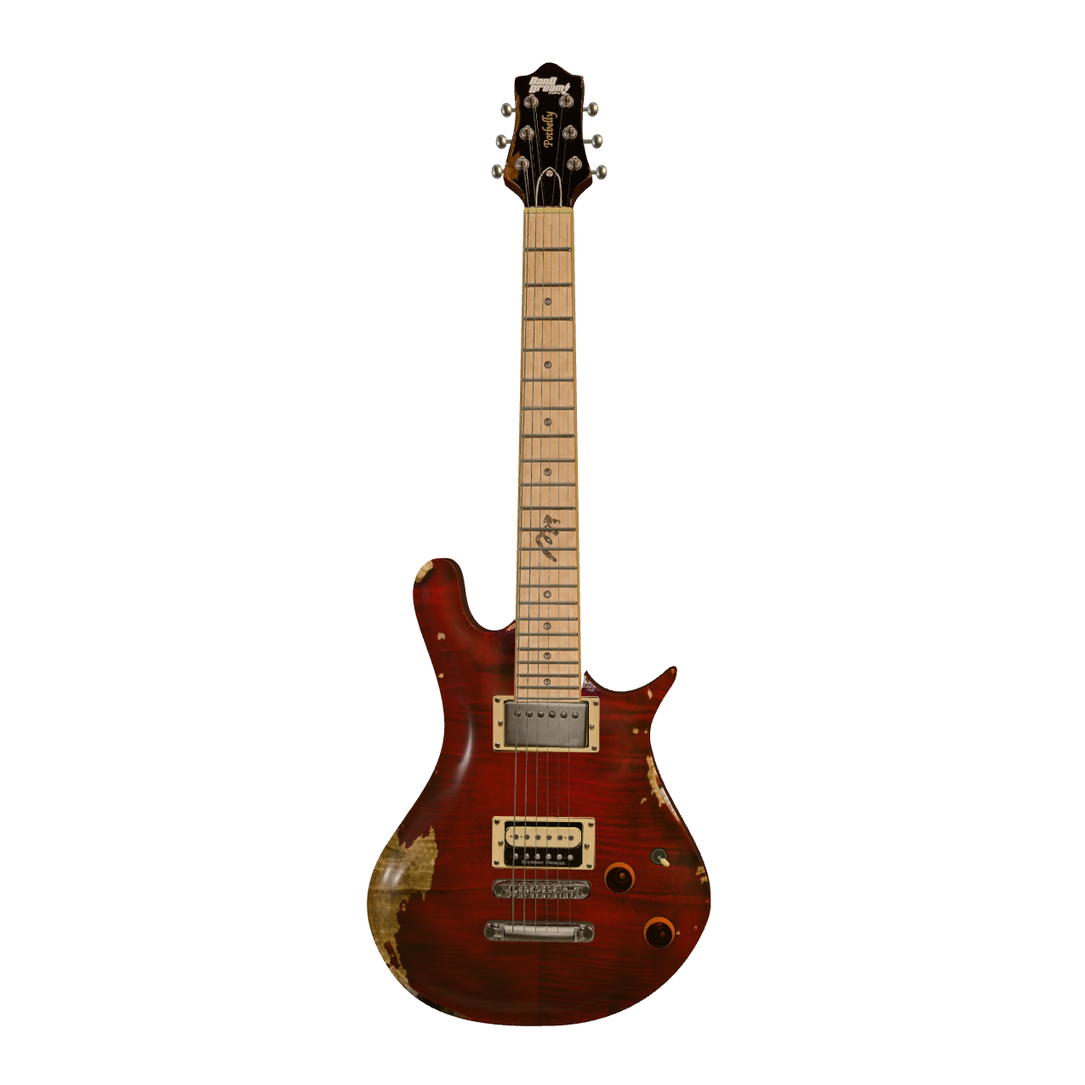
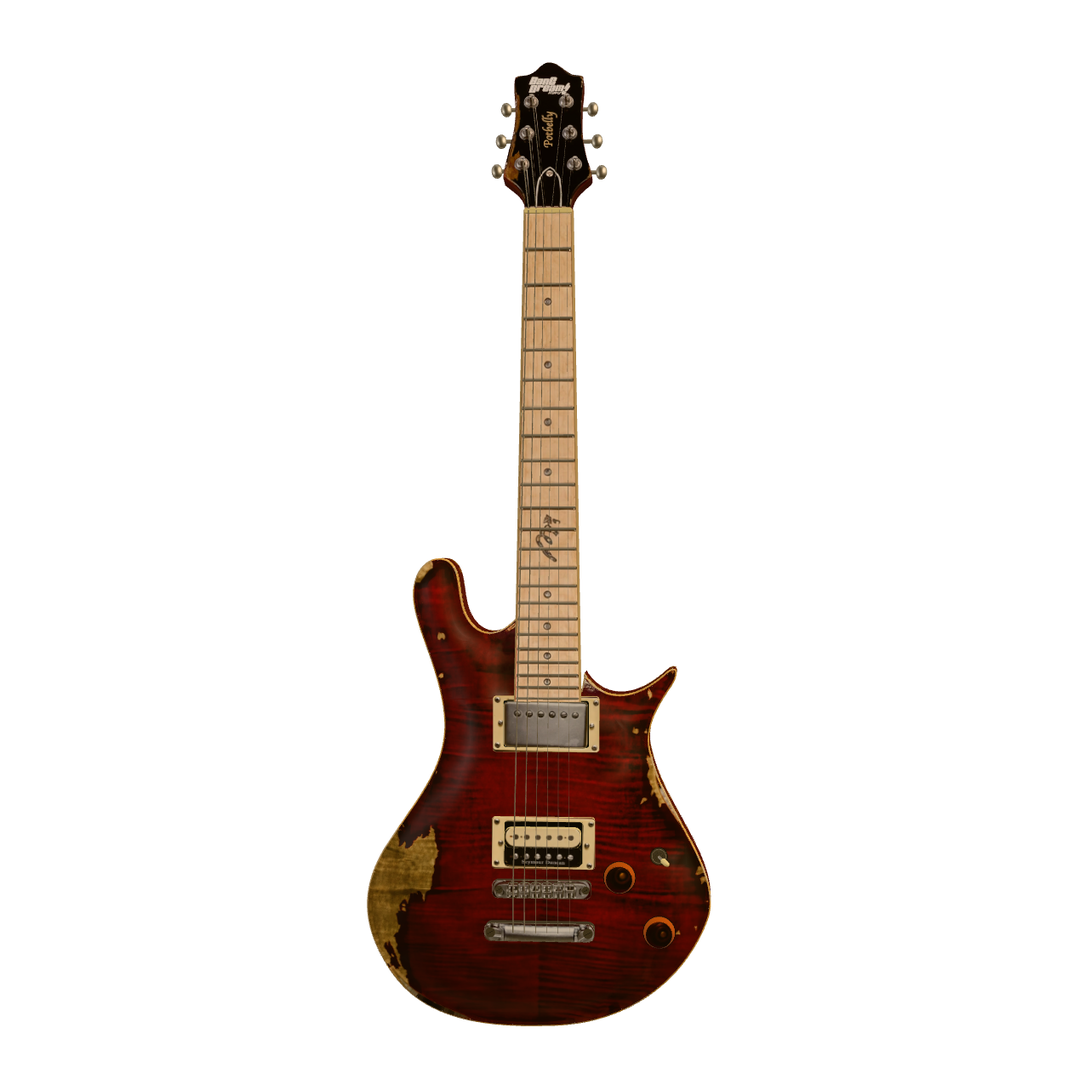
feat(me): 吉他漆面按 ESP 原版做旧硝基：缎面、虎纹、侧板与琴颈背
- Model the finish on ESP's POTBELLY FM Rāna "Distressed See Thru Wine Red (Lacquer)":
  thin nitro satin, matte bare wood, a few patches of checking, aged nickel hardware
- Chatoyant flame: the curl pattern rolls with the viewing angle instead of losing contrast
- Grade the lacquer to ESP's pure wine red and the worn maple to a dirtier amber
- Sides get natural maple binding over wine-red mahogany, with wear continued from the
  front and back photographs at each point of the edge
- Back, scraped neck back and headstock back from ESP's back photograph (esp-rana-back.webp)
- The close-up turns all the way round; damp the headstock's direct glare at home
- Re-render guitar-home.webp; document the finish in English

diff --git a/src/scripts/me/guitar-model.js b/src/scripts/me/guitar-model.js
@@ -39,13 +39,15 @@ async function init() {
   const photoImage=document.querySelector('#guitar-photo');
   photoImage.loading='eager';
   const originalPhoto=photoImage.decode().then(()=>{const texture=new THREE.Texture(photoImage);texture.needsUpdate=true;return texture;});
-  const [photo,bareBody,official,headOriginal]=await Promise.all([
+  const [photo,bareBody,official,backPhoto,headOriginal]=await Promise.all([
     loader.loadAsync(new URL('../../assets/me/qiu-potbelly-stringless.webp',import.meta.url).href),
     loader.loadAsync(new URL('../../assets/me/qiu-potbelly-bare-body.webp',import.meta.url).href),
     loader.loadAsync(new URL('../../assets/me/bangdream-potbelly-stringless.webp',import.meta.url).href),
+    // ESP's official back photograph, mirrored into the front photograph's frame (x = 2392 − x) and cropped at x = 760.
+    loader.loadAsync(new URL('../../assets/me/esp-rana-back.webp',import.meta.url).href),
     originalPhoto
   ]);
-  [photo,bareBody,official,headOriginal].forEach(t=>{t.colorSpace=THREE.SRGBColorSpace;t.anisotropy=Math.min(8,renderer.capabilities.getMaxAnisotropy());});
+  [photo,bareBody,official,backPhoto,headOriginal].forEach(t=>{t.colorSpace=THREE.SRGBColorSpace;t.anisotropy=Math.min(8,renderer.capabilities.getMaxAnisotropy());});
   await yieldTask();
 
   // A small studio environment supplies real moving reflections on the metal.
@@ -79,18 +81,99 @@ async function init() {
   };
   lighting.studio();
 
-  const metal=new THREE.MeshStandardMaterial({color:'#bfc3c1',metalness:1,roughness:.24,envMapIntensity:.85});
+  // Aged nickel rather than polished chrome.
+  const metal=new THREE.MeshStandardMaterial({color:'#c4bfb2',metalness:1,roughness:.3,envMapIntensity:.8});
   const darkMetal=new THREE.MeshStandardMaterial({color:'#424341',metalness:.8,roughness:.32});
   const cream=new THREE.MeshStandardMaterial({color:'#d9ca91',roughness:.38});
   const black=new THREE.MeshStandardMaterial({color:'#121513',roughness:.36});
-  const side=new THREE.MeshPhysicalMaterial({color:'#351015',roughness:.37,clearcoat:.35,clearcoatRoughness:.3});
-  const varnish=new THREE.MeshPhysicalMaterial({map:bareBody,roughness:.62,clearcoat:.55,clearcoatRoughness:.2,envMapIntensity:.32});
-  // Qiu's own photo darkens the lacquer towards purple. Grade only the red finish
-  // (not the bare-wood wear) towards the official Rāna photograph's warm cherry.
+  const side=new THREE.MeshPhysicalMaterial({color:'#4a1012',roughness:.55,clearcoat:.2,clearcoatRoughness:.4});
+
+  // ESP finishes the Rāna in "Distressed See Thru Wine Red (Lacquer)", aged by hand: a thin nitro
+  // satin over a flamed maple top and a mahogany back, worn through to bare wood where a player
+  // would wear it. Lacquer and bare wood are told apart by colour alone: wine red is almost pure red.
+  const finishGLSL=`
+    float lacquerOf(vec3 c,float a,float b){return smoothstep(a,b,(c.r-max(c.g,c.b))/max(c.r,.001));}
+    float hash3(vec3 p){p=fract(p*.3183099+.1);p*=17.;return fract(p.x*p.y*p.z*(p.x+p.y+p.z));}
+    float noise3(vec3 x){vec3 i=floor(x),f=fract(x);f=f*f*(3.-2.*f);
+      return mix(mix(mix(hash3(i),hash3(i+vec3(1,0,0)),f.x),mix(hash3(i+vec3(0,1,0)),hash3(i+vec3(1,1,0)),f.x),f.y),
+                 mix(mix(hash3(i+vec3(0,0,1)),hash3(i+vec3(1,0,1)),f.x),mix(hash3(i+vec3(0,1,1)),hash3(i+vec3(1,1,1)),f.x),f.y),f.z);}
+    // Nitro checks: a fine crazing of cracks, only in a few patches, as on ESP's upper horn.
+    float checking(vec2 p){
+      vec2 i=floor(p),f=fract(p);float d1=8.,d2=8.;
+      for(int y=-1;y<=1;y++)for(int x=-1;x<=1;x++){vec2 g=vec2(x,y),o=vec2(hash3(vec3(i+g,1.)),hash3(vec3(i+g,7.)));float d=length(g+o-f);if(d<d1){d2=d1;d1=d;}else if(d<d2)d2=d;}
+      float e=d2-d1,w=fwidth(e)*1.2+.015;
+      return (1.-smoothstep(0.,w,e))*smoothstep(.06,.25,1./max(fwidth(p.x)*40.,.001));
+    }`;
+  const figure={value:0};
+  const varnish=new THREE.MeshPhysicalMaterial({map:bareBody,roughness:.5,clearcoat:.32,clearcoatRoughness:.38,envMapIntensity:.32});
   varnish.onBeforeCompile=shader=>{
+    shader.uniforms.figure=figure;
+    shader.fragmentShader=shader.fragmentShader.replace('#include <common>','#include <common>\nuniform float figure;\n'+finishGLSL);
     shader.fragmentShader=shader.fragmentShader.replace('#include <map_fragment>',`#include <map_fragment>
-      float lacquer=smoothstep(.55,.85,(diffuseColor.r-max(diffuseColor.g,diffuseColor.b))/max(diffuseColor.r,.001));
-      diffuseColor.rgb=mix(diffuseColor.rgb,diffuseColor.rgb*vec3(1.6,1.,1.35)+vec3(0.,.0075,.0016),lacquer);
+      float lacquer=lacquerOf(diffuseColor.rgb,.55,.85);
+      // Flamed maple is chatoyant: as the guitar turns, its curls swap light for dark.
+      // The curls run across the body, so their bright bands roll along its length; keep their
+      // contrast, deepen it a little as ESP's top shows, and shift which curls catch the light.
+      vec3 broad=texture2D(map,vMapUv,3.5).rgb;
+      vec3 rolled=texture2D(map,vMapUv+vec2(0.,figure*.0032)).rgb;
+      float broadLuma=dot(broad,vec3(.7,.25,.05))+.0005;
+      float curl=dot(diffuseColor.rgb,vec3(.7,.25,.05))/broadLuma,rolledCurl=dot(rolled,vec3(.7,.25,.05))/broadLuma;
+      diffuseColor.rgb*=mix(1.,clamp((1.+(rolledCurl-1.)*1.75)/max(curl,.05),.3,2.8),lacquer*smoothstep(.3,.6,lacquerOf(rolled,.55,.85)));
+      // Qiu's photo carries a little blue; ESP's lacquer is a pure, deep wine red (sRGB ≈ 75,0,0).
+      diffuseColor.rgb=mix(diffuseColor.rgb,diffuseColor.rgb*vec3(1.08,.6,.22),lacquer);
+      // Bare maple that has 'aged' is a dirtier amber than fresh wood.
+      diffuseColor.rgb*=mix(vec3(.84,.76,.6),vec3(1.),lacquer);
+      vec2 photoPixel=vMapUv*vec2(1080.,1501.);
+      float checks=checking(photoPixel/11.)*smoothstep(.66,.82,noise3(vec3(photoPixel/150.,3.)))*lacquer;
+      diffuseColor.rgb*=1.-.25*checks;
+    `).replace('#include <roughnessmap_fragment>',`#include <roughnessmap_fragment>
+      roughnessFactor=mix(.86,roughnessFactor,lacquer);
+    `).replace('#include <lights_physical_fragment>',`#include <lights_physical_fragment>
+      material.clearcoat*=lacquer*(1.-checks);
+    `);
+  };
+  // ESP's back photograph covers the mahogany back, the scraped neck and the headstock's back.
+  const backFinish=new THREE.MeshPhysicalMaterial({map:backPhoto,roughness:.5,clearcoat:.3,clearcoatRoughness:.4,envMapIntensity:.3});
+  backFinish.onBeforeCompile=shader=>{
+    shader.fragmentShader=shader.fragmentShader.replace('#include <common>','#include <common>\n'+finishGLSL);
+    shader.fragmentShader=shader.fragmentShader.replace('#include <map_fragment>',`#include <map_fragment>
+      float lacquer=lacquerOf(diffuseColor.rgb,.8,.95);
+    `).replace('#include <roughnessmap_fragment>',`#include <roughnessmap_fragment>
+      roughnessFactor=mix(.84,roughnessFactor,lacquer);
+    `).replace('#include <lights_physical_fragment>',`#include <lights_physical_fragment>
+      material.clearcoat*=lacquer;
+    `);
+  };
+  const backFinishInside=backFinish.clone();backFinishInside.side=THREE.BackSide;backFinishInside.onBeforeCompile=backFinish.onBeforeCompile;
+  // The sides: a natural maple binding along the top, then wine red over mahogany. Wear continues
+  // from whatever the front and back photographs show at that point of the edge, and edges rub through.
+  const sideFinish=new THREE.MeshPhysicalMaterial({map:bareBody,roughness:.5,clearcoat:.3,clearcoatRoughness:.4,envMapIntensity:.3});
+  sideFinish.onBeforeCompile=shader=>{
+    shader.uniforms.backMap={value:backPhoto};
+    shader.vertexShader='varying vec3 vSidePos;\n'+shader.vertexShader.replace('#include <begin_vertex>','#include <begin_vertex>\nvSidePos=position;');
+    shader.fragmentShader=shader.fragmentShader.replace('#include <common>','#include <common>\nuniform sampler2D backMap;\nvarying vec3 vSidePos;\n'+finishGLSL);
+    shader.fragmentShader=shader.fragmentShader.replace('#include <map_fragment>',`#include <map_fragment>
+      vec3 P=vSidePos;float height=clamp((P.z+.029)/.043,0.,1.);
+      vec2 photoPixel=vec2(vMapUv.x*1080.,(1.-vMapUv.y)*1501.);
+      vec2 backUv=vec2((8.+(photoPixel.x-6.6)*.8113)/870.,1.-(1262.+(photoPixel.y-77.6)*.7885)/2400.);
+      vec3 front=diffuseColor.rgb,back=texture2D(backMap,backUv).rgb;
+      float frontBare=1.-lacquerOf(front,.55,.85),backBare=1.-lacquerOf(back,.8,.95);
+      float chips=noise3(P*vec3(380.,380.,600.))*.65+noise3(P*vec3(1100.,1100.,1700.))*.35,patches=noise3(P*vec3(110.,110.,160.)+7.)*.7+noise3(P*vec3(330.,330.,480.)+3.)*.3;
+      float wear=max(frontBare*smoothstep(.3,.95,height),backBare*smoothstep(.7,.05,height));
+      wear=max(wear,smoothstep(.66,.8,patches))+(chips-.5)*.22+.4*(pow(height,12.)+pow(1.-height,12.));
+      float bare=smoothstep(.47,.53,wear);
+      float grain=noise3(vec3(P.xy*90.,P.z*2600.))*.6+noise3(vec3(P.xy*30.,P.z*700.))*.4;
+      float curl=noise3(vec3(P.xy*520.,P.z*25.));
+      float binding=smoothstep(.0055,.0065,P.z);
+      vec3 mahogany=mix(vec3(.105,.003,.003)*(.75+.5*grain),vec3(.17,.05,.012)*(.7+.6*grain),bare);
+      mahogany=mix(mahogany,back,smoothstep(.12,0.,height)*(1.-bare));
+      vec3 maple=mix(vec3(.6,.36,.11)*(.7+.5*curl),vec3(.5,.38,.22)*(.8+.3*curl),bare);
+      diffuseColor.rgb=mix(mahogany,maple,binding);
+      float lacquer=1.-bare;
+    `).replace('#include <roughnessmap_fragment>',`#include <roughnessmap_fragment>
+      roughnessFactor=mix(.84,roughnessFactor,lacquer);
+    `).replace('#include <lights_physical_fragment>',`#include <lights_physical_fragment>
+      material.clearcoat*=lacquer;
     `);
   };
   const photographedMetal=new THREE.MeshStandardMaterial({map:photo,metalness:.35,roughness:.38,envMapIntensity:.5});
@@ -158,9 +241,13 @@ async function init() {
     wallIndices.push(a,c,b,b,c,d);
   }
   const wallGeometry=new THREE.BufferGeometry();wallGeometry.setAttribute('position',new THREE.Float32BufferAttribute(wallPositions,3));wallGeometry.setAttribute('normal',new THREE.Float32BufferAttribute(wallNormals,3));wallGeometry.setAttribute('uv',new THREE.Float32BufferAttribute(wallUV,2));wallGeometry.setIndex(wallIndices);
-  wallGeometry.addGroup(0,count*6*3,0);wallGeometry.addGroup(count*6*3,wallIndices.length-count*6*3,1);
-  const body=mesh(wallGeometry,[varnish,side]);body.name='Continuous rounded 55 mm body';
-  const backMaterial=side.clone();backMaterial.side=THREE.BackSide;mesh(new THREE.ShapeGeometry(faceOutline),backMaterial,0,0,-.029);
+  wallGeometry.addGroup(0,count*6,0);wallGeometry.addGroup(count*6,wallIndices.length-count*6,1);
+  const body=mesh(wallGeometry,[varnish,sideFinish]);body.name='Continuous rounded 55 mm body';
+  // The back is registered to the outline: the photograph's body spans x 768–1615, y 1262–2377.
+  const backUV=(x,y)=>[(8+(x/S+540-6.6)*.8113)/870,1-(1262+(1000-y/S-77.6)*.7885)/2400];
+  const backFace=new THREE.ShapeGeometry(faceOutline,12);
+  {const p=backFace.attributes.position,uv=backFace.attributes.uv;for(let i=0;i<p.count;i++)uv.setXY(i,...backUV(p.getX(i),p.getY(i)));}
+  mesh(backFace,backFinishInside,0,0,-.029);
 
   // Build the unchanged carved top away from the input/rendering thread.
   const flat=new THREE.ShapeGeometry(faceOutline).toNonIndexed();
@@ -205,7 +292,21 @@ async function init() {
     const strip=new THREE.Shape();strip.moveTo(neckX-wa,a);strip.lineTo(neckX-wb,b);strip.lineTo(neckX+wb,b);strip.lineTo(neckX+wa,a);strip.closePath();
     photoFace(strip,official,boardUV,.022);
   }
-  const neckBack=mesh(new THREE.CylinderGeometry(.021,.029,.477,24),side,neckX,.374,-.010);neckBack.scale.z=.7;
+  // The back of the neck is scraped to bare mahogany; project ESP's photograph onto it with the
+  // fingerboard's own fret registration, extrapolated past the last fret into the heel.
+  const pixelAt=y=>{
+    if(y<.153)return 1523+(.153-y)*(1523-1498)/(boardRows[22].y-.153);
+    let i=0;while(i<boardRows.length-2&&y<boardRows[i+1].y)i++;
+    const a=boardRows[i],b=boardRows[i+1];return a.pixel+(b.pixel-a.pixel)*limit((a.y-y)/(a.y-b.y),0,1);
+  };
+  const neckGeometry=new THREE.CylinderGeometry(.021,.029,.477,32,24);
+  {const p=neckGeometry.attributes.position,uv=neckGeometry.attributes.uv;
+    for(let i=0;i<p.count;i++){
+      const y=.374+p.getY(i),py=pixelAt(y),halfWidth=(.021+(.6125-y)/.477*.008),photoHalf=(108+(py-365)/(1523-365)*36)/2;
+      const px=1198+limit(p.getX(i)/halfWidth,-.96,.96)*photoHalf;
+      uv.setXY(i,(px-760)/870,1-py/2400);
+    }}
+  const neckBack=mesh(neckGeometry,backFinish,neckX,.374,-.010);neckBack.scale.z=.7;
   for(let fret=1;fret<=22;fret++) {
     const y=fretY(fret),w=.043+(nut-y)/(nut-.153)*.016;
     const crown=rod([neckX-w/2+.0008,y,.0226],[neckX+w/2-.0008,y,.0226],.00105);
@@ -236,12 +337,15 @@ async function init() {
   hc(1290,257,1303,282,1296,291);hc(1278,309,1255,321,1251,360);
   hp(1144,360);head.closePath();
   mesh(new THREE.ExtrudeGeometry(head,{depth:.014,curveSegments:18,bevelEnabled:true,bevelSize:.00045,bevelThickness:.0005,bevelSegments:3}),side,0,0,-.008,headGroup);
+  const headBack=new THREE.ShapeGeometry(head,18);
+  {const p=headBack.attributes.position,uv=headBack.attributes.uv;for(let i=0;i<p.count;i++)uv.setXY(i,(1198+(p.getX(i)-neckX)/headScale-760)/870,1-(365-p.getY(i)/headScale)/2400);}
+  mesh(headBack,backFinishInside,0,0,-.0088,headGroup);
   const posts=[{px:1154,py:100,bx:1093,by:104},{px:1146,py:178,bx:1082,by:183},{px:1135,py:254,bx:1073,by:257},{px:1237,py:100,bx:1298,by:106},{px:1246,py:179,bx:1309,by:186},{px:1258,py:257,bx:1320,by:263}];
   // Cut the original washers out of the flat face. Their pixels belong only to the relief.
   for(const post of posts){const hole=new THREE.Path();hole.absarc(HX(post.px),HY(post.py),18*headScale,0,Math.PI*2,true);head.holes.push(hole);}
   const headFace=photoFace(head,headOriginal,headUV,.007,headGroup);
   // The headstock is gloss black: a sharp window reflection, not a grey satin film.
-  headFace.material.roughness=.12;headFace.material.envMapIntensity=.55;
+  headFace.material.roughness=.2;headFace.material.envMapIntensity=.22;
   // Keep the original high-resolution lettering and wear. Use the cleaned texture
   // only inside the six narrow string corridors, where the source has baked strings.
   const stringCorridors=Array.from({length:6},(_,i)=>{
@@ -261,6 +365,9 @@ async function init() {
         cleanMask=max(cleanMask,1.0-smoothstep(3.0,5.0,length(headPixel-mix(a,b,t))));
       }
       diffuseColor.rgb=diffuse*mix(texture2D(map,vMapUv).rgb,texture2D(cleanHead,vMapUv).rgb,cleanMask);
+    `).replace('#include <lights_fragment_end>',`#include <lights_fragment_end>
+      // A flat face catches the sun all at once; let it glint, not turn white.
+      reflectedLight.directSpecular*=.28;
     `);
   };
   const headChrome=new THREE.MeshStandardMaterial({map:headOriginal,metalness:.5,roughness:.3,envMapIntensity:.6});
@@ -338,7 +445,7 @@ async function init() {
   }
   // Prepare GPU programs while the worker is still calculating the carved top.
   // The wall already uses the top's material, so every shader variant is present.
-  for(const texture of [photo,bareBody,official,headOriginal]){await yieldTask();renderer.initTexture(texture);}
+  for(const texture of [photo,bareBody,official,backPhoto,headOriginal]){await yieldTask();renderer.initTexture(texture);}
   await yieldTask();
   const shadersReady=renderer.compileAsync(scene,camera);
   const surfaceData=await surfacePromise;
@@ -375,7 +482,7 @@ async function init() {
     size(w,h);
     const [focus,extent]=views[view];
     const fit=Math.max(extent,(view==='body'?.39:view==='whole'?.4:.10)/(w/h));
-    compose(focus,fit/zoom,w/h,pitch,yaw);lighting.studio();renderer.render(scene,camera);
+    compose(focus,fit/zoom,w/h,pitch,yaw);lighting.studio();figure.value=Math.sin(yaw*2.6+pitch*2.2);renderer.render(scene,camera);
     canvas.dataset.yaw=yaw.toFixed(3);canvas.dataset.pitch=pitch.toFixed(3);canvas.dataset.zoom=zoom.toFixed(2);canvas.dataset.view=view;
     lastHome='';
   }
@@ -384,7 +491,7 @@ async function init() {
     canvas,
     drawHome(x,y){
       const signature=`${x.toFixed(3)},${y.toFixed(3)}`;if(signature===lastHome)return;
-      size(850,850);compose(.300,1.02,1,y*.10,-.08+x*.44);lighting.room();renderer.render(scene,camera);lastHome=signature;
+      size(850,850);compose(.300,1.02,1,y*.10,-.08+x*.44);lighting.room();figure.value=Math.sin((x*.44)*2.6+y*.22);renderer.render(scene,camera);lastHome=signature;
     },
     setDetail(name){view=name;zoom=1;requestRender();}
   };
@@ -394,7 +501,7 @@ async function init() {
   canvas.addEventListener('pointerdown',e=>{if(e.button!==0)return;drag={id:e.pointerId,x:e.clientX,y:e.clientY,yaw,pitch};canvas.setPointerCapture(e.pointerId);canvas.classList.add('turning');canvas.focus({preventScroll:true});});
   canvas.addEventListener('pointermove',e=>{
     if(drag&&e.pointerType==='mouse'&&e.buttons===0)release(e);
-    if(drag&&drag.id===e.pointerId){yaw=limit(drag.yaw+(e.clientX-drag.x)*.007,-1.12,1.12);pitch=limit(drag.pitch+(e.clientY-drag.y)*.005,-.38,.38);requestRender();}
+    if(drag&&drag.id===e.pointerId){yaw=drag.yaw+(e.clientX-drag.x)*.007;pitch=limit(drag.pitch+(e.clientY-drag.y)*.005,-.38,.38);requestRender();}
     else if(e.pointerType==='mouse'){const rect=canvas.getBoundingClientRect();studioKeyX=-2+(e.clientX-rect.left)/rect.width*1.3;requestRender();}
   });
   function release(e){if(!drag||drag.id!==e.pointerId)return;drag=null;canvas.classList.remove('turning');if(canvas.hasPointerCapture(e.pointerId))canvas.releasePointerCapture(e.pointerId);}
@@ -408,7 +515,7 @@ async function init() {
     if(e.key===' ')reset();
     else if(e.key==='+')zoom=limit(zoom*1.15,.7,2.3);
     else if(e.key==='-')zoom=limit(zoom/1.15,.7,2.3);
-    else {yaw=limit(yaw+(e.key==='ArrowRight'?.12:e.key==='ArrowLeft'?-.12:0),-1.12,1.12);pitch=limit(pitch+(e.key==='ArrowDown'?.08:e.key==='ArrowUp'?-.08:0),-.38,.38);}
+    else {yaw+=e.key==='ArrowRight'?.12:e.key==='ArrowLeft'?-.12:0;pitch=limit(pitch+(e.key==='ArrowDown'?.08:e.key==='ArrowUp'?-.08:0),-.38,.38);}
     requestRender();
   });
   dialog.addEventListener('close',()=>{lastHome='';window.dispatchEvent(new Event('guitar-model-ready'));});

diff --git a/docs/uiux/ink-and-light-study.md b/docs/uiux/ink-and-light-study.md
@@ -7,6 +7,7 @@
 - **一扇窗的光**：`#room` 内的 `.daylight` 层（百叶窗光斑、摇动的树影、暖色日光、纸张颗粒、暗角）固定在视口上，`pointer-events:none`。每个区域用 `#room[data-place]` 改变光的时刻；琴弦之间关掉日光，只留房间自己的台灯。物体阴影统一朝远离窗户的左下方投射。
 - **Home guitar** (superseded on 2026-10-09 by `open-world-brief.md`): the photo swap and tap-to-strum were a misreading and have been undone. The home room keeps the Three.js model with mouse-follow and click-to-pick-up, makes no sound, and only its look (materials, lighting) is being improved against the Rāna photograph.
   - *Look (2026-10-09, pending Qiu's review)*: `guitar-model.js` has two lighting rigs. The home render uses `lighting.room()`: warm key from the upper right (the daylight layer's window), paper-bounce fill, Neutral tone mapping, and an environment map with a slatted window to the side so the clearcoat picks up the blinds as the guitar turns. The close-up keeps `lighting.studio()` (ACES, dark softbox studio). The lacquer is a satin clearcoat, and a shader grade pulls only the red finish (not the bare-wood wear) of Qiu's darker body texture towards the official photo's warm cherry. The headstock face is gloss black (roughness .12) and the knobs are translucent amber. The 2D cast shadow in `scene.js` now falls lower-left, away from the window, in two layers like every other object; `guitar-home.webp` was re-rendered from the new look.
+  - *Finish (2026-10-09, pending Qiu's review)*: modelled on ESP's own POTBELLY FM Rāna (ESP brand, ¥1,760,000): "Distressed See Thru Wine Red (Lacquer)", aged by hand; flamed maple top with natural binding, mahogany back and neck, hard maple board. The top is a thin nitro satin (roughness .5, clearcoat .32/.38), with the clearcoat removed and roughness .86 wherever the wood is worn through. A few patches of fine checking (crazing) appear only in the close-up. The flame is chatoyant: as the guitar turns, the curl pattern rolls along the body (`figure` uniform from yaw/pitch) instead of losing contrast. The lacquer is graded towards ESP's pure wine red (sRGB ≈ 75,0,0) and the worn maple to a dirtier amber. Sides: natural maple binding along the top 8 mm, then wine red over mahogany; wear continues from what the front and back photographs show at that point of the edge, plus rubbed corners and chips. Back, scraped neck back and headstock back use ESP's back photograph (`esp-rana-back.webp`). The close-up now turns all the way round so the back can be seen. Hardware is aged nickel rather than chrome.
 - **琴弦之间**：深色台灯房间。琴弦改为真实琴身特写（`jam-strings.webp`：拾音器、琴桥、六根弦），按下或划过才发声，鼠标悬停不触发；拨动的弦显示振动包络。新增指针式 VU 表。踏板保留 CENTAUR / BD-2 / AFTER HOURS 三台与原有音频链，补上踏板底板、压铸质感、旋钮滚花、镀铬开关、插头、LED 投光，回声开时磁带轮转动。
 - **声音**：弹拨合成加入拨弦位置、双偏振轻微失谐与分数延迟调音；整条链末端加一个小木屋混响。首次点击琴弦即打开声音。
 - **房间各自的构图**（桌面端 ≥701px）：未走之路为对角线构图（问句在左上、「还要选择吗。」在右下）；留一笔整间是纸、标题竖排在右侧；盲点为居中海报；另一面左右镜像。窄屏保持原布局。

diff --git a/.agents/skills/qiu-site-frontend-design/SKILL.md b/.agents/skills/qiu-site-frontend-design/SKILL.md
@@ -14,7 +14,7 @@ The user approved the bilingual immersive prototype for `me.qiu.works` and its i
 
 Keep the approved Chinese name in both languages, real guitar model, spatial exploration, playable three-pedal audio chain, six-second looper and draw-to-pluck scene. Reuse the bundled Three.js and native Web Audio; no new framework is needed. Verify changed behavior proportionately, including production asset paths, localized navigation and narrow-screen usability. Update this skill with the active contract when these boundaries change.
 
-As of 2026-10-09 the agreed homepage vision is `docs/uiux/open-world-brief.md`; read it first. The home room keeps the Three.js guitar: large, tilted, centred, turning to follow the mouse (disabled only by reduced motion or the motion toggle); clicking picks it up into the close-up dialog. It makes no sound; sound lives in the strings room. Improve how it looks (materials, lighting) against the Rāna photograph, never replace it with a photo. Its home render uses `lighting.room()` (window-warm key from the upper right, cast shadow to the lower left); the close-up uses `lighting.studio()`. A viewport-fixed daylight layer and the lamp-lit strings room are described in the 2026-10-08 section of `docs/uiux/ink-and-light-study.md`. For the user-approved portrait hierarchy (2026-09-24), keep the Three.js guitar unconditional and prominent. Let the name, one greeting and one main invitation lead; use one short localized guitar hint. Keep scene doors, the room map and the motion control available while hiding duplicate explanation and manual zoom/overview controls. Scope these changes to narrow portrait layouts; leave desktop and landscape composition intact.
+As of 2026-10-09 the agreed homepage vision is `docs/uiux/open-world-brief.md`; read it first. The home room keeps the Three.js guitar: large, tilted, centred, turning to follow the mouse (disabled only by reduced motion or the motion toggle); clicking picks it up into the close-up dialog. It makes no sound; sound lives in the strings room. Improve how it looks (materials, lighting) against the Rāna photograph, never replace it with a photo. Its home render uses `lighting.room()` (window-warm key from the upper right, cast shadow to the lower left); the close-up uses `lighting.studio()`. The finish follows ESP's Distressed See Thru Wine Red nitro relic (satin, not polished; chatoyant flame; natural binding; mahogany back and sides; scraped neck back from `esp-rana-back.webp`); see the 2026-10-08 section of `docs/uiux/ink-and-light-study.md`. A viewport-fixed daylight layer and the lamp-lit strings room are described in the 2026-10-08 section of `docs/uiux/ink-and-light-study.md`. For the user-approved portrait hierarchy (2026-09-24), keep the Three.js guitar unconditional and prominent. Let the name, one greeting and one main invitation lead; use one short localized guitar hint. Keep scene doors, the room map and the motion control available while hiding duplicate explanation and manual zoom/overview controls. Scope these changes to narrow portrait layouts; leave desktop and landscape composition intact.
 
 For the 2026-09-30 font consistency fix, homepage text uses the self-hosted Arimo,
 Gelasio, Cousine, Noto Sans SC and Noto Serif SC assets in `src/assets/me/fonts/`.

diff --git a/docs/me-home.md b/docs/me-home.md
@@ -51,6 +51,7 @@
 | `bangdream-potbelly-fm-rana.png` → `.webp` | ESP 官方正面参考，2400 × 2400，运行时用于琴头标记、加载回退和 WebGL 回退 |
 | `guitar-home.webp` | Neutral frame of the same 3D model under the home room lighting (`drawHome(0,0)` at pixel ratio 1.5), 1275 × 1275, lossless transparent WebP; shown first and hidden once the model draws its first frame. Re-render it whenever the model's look changes |
 | `jam-strings.webp` | Body close-up cut from the same official photograph (pickups, bridge, six strings), rotated landscape, 860 × 620; the playable strings in the strings room |
+| `esp-rana-back.webp` | ESP's official back photograph of the ESP-brand POTBELLY FM Rāna (`ESP_POTBELLY_FM_Rana_back.png`, 2400 × 2400), mirrored into the front photograph's frame (x = 2392 − x), cropped to x 760–1630 (870 × 2400), edges dilated so the outline never samples background. Runtime texture for the body back (registered to the outline: x 768–1615, y 1262–2377), the scraped neck back (fret-registered like the fingerboard) and the headstock back |
 | `work-home.webp` | 已确认的 VeriSilo 雕塑中性帧，1191 × 636，无损透明 WebP；展区载入时显示 |
 
 PNG 保留为贴图源文件；首页和 Three.js 运行时加载同尺寸的高质量 WebP（quality 95）。四张贴图总量从 4.95 MB 降至 1.05 MB，约减少 79%。
